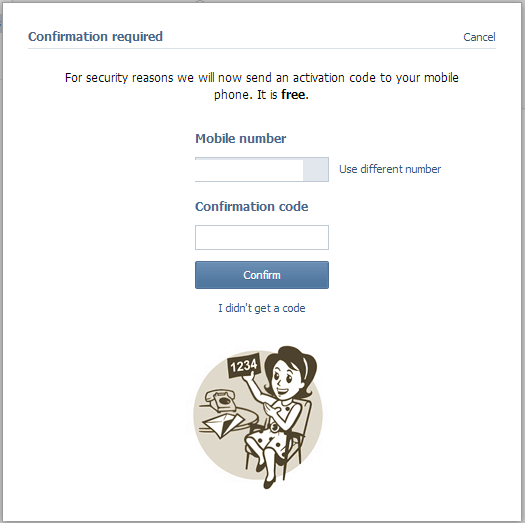
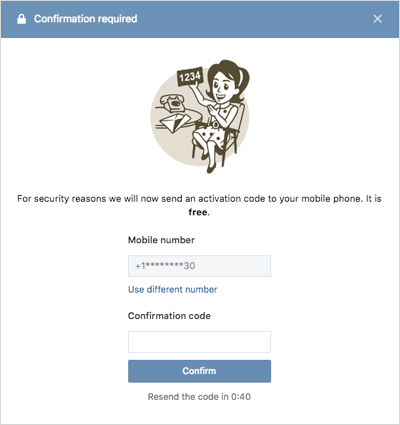
[update] vKontakte - updated steps, all new screenshots

Changed region(s): [[0.0, 0.0, 1.0, 1.0]]

diff --git a/articles/connections/social/vkontakte.md b/articles/connections/social/vkontakte.md
@@ -2,37 +2,93 @@
 connection: vKontakte
 image: /media/connections/vkontakte.png
 seo_alias: vkontakte
+description: How to connect your Auth0 app to vKontakte.
 ---
 
-# Obtaining an Application ID and Secure Key for vKontakte
+# Connect your app to vKontakte
 
-To configure an vKontakte connection you will need to register your Auth0 instance as a vKontakte application.
+To connect your Auth0 app to vKontakte, you will need to generate an `Application ID` and `Secure Key` in a vKontakte app, copy these keys into your Auth0 settings, and enable the connection.
 
-## 1. Create a new Application in vKontakte:
-Log in into vKontakte and [create a new app](http://vk.com/editapp?act=create):
+
+## 1. Create a new vKontakte application
+
+Log in into [vKontakte Developers](https://new.vk.com/dev). 
+
+Go to **My Apps** and click **Create an Application**:
+
+![](/media/articles/connections/social/vkontakte/vkontakte-login.png)
+
+Select **Website** as the **Category**. 
+
+Provide a name for your app.
+
+In the **Site address** field, enter the following:
+
+`https://${account.tenant}.auth0.com`
+
+In the **Base domain** field, enter the following:
+
+`${account.tenant}.auth0.com`
 
 ![](/media/articles/connections/social/vkontakte/vkontakte-create-app.png)
 
-You will be required to confirm the request with an SMS message:
+Click **Connect Site** to create the app.
+
+You will be required to confirm your request with a code send via SMS:
 
 ![](/media/articles/connections/social/vkontakte/vkontakte-validate-create-app.png)
 
----
 
-## 2. Register a new application
+## 2. Enter your *redirect URL*
 
-Complete the form:
+Once the application is created, select **Settings** in the left nav.
 
-![](/media/articles/connections/social/vkontakte/vkontakte-register-app.png)
+In the **Authorized redirect URI** field, enter the following:
 
-The callback address for your app should be:
+`https://${account.tenant}.auth0.com/login/callback`
 
-	https://${account.namespace}/login/callback
+Click **Save**.
 
----
+![](/media/articles/connections/social/vkontakte/vkontakte-redirect.png)
 
-## 3. Get your Application ID and Secure Key
+## 3. Get your *Application ID* and *Secure Key*
 
-Once the application is registered, enter your new `Application ID` and `Secure Key` into the connection settings in Auth0.
+From the top of the same page, copy the `Application ID` and `Secure Key` for use in the next step.
+
+![](/media/articles/connections/social/vkontakte/vkontakte-keys.png)
+
+## 4. Enter your *Application ID* and *Secure Key* into Auth0
+
+In a separate window, go to the [Connections > Social](${uiURL}/#/connections/social) section of the Auth0 dashboard.
+
+Select **vKontakte**:
+
+![](/media/articles/connections/social/vkontakte/vkontakte-logo.png)
+
+Copy the `Application ID` and `Secure Key` from the **Settings** page of your app on vKontakte into the fields on this page on Auth0.
+
+Select the Permissions you want to enable.
+
+Click **SAVE**.
 
 ![](/media/articles/connections/social/vkontakte/vkontakte-add-connection.png)
+
+## 5. Enable the Connection
+
+Go to the **Apps** tab of the vKontakte connection on Auth0 and select each of your existing Auth0 apps for which you want to enable this connection and click **Save**:
+
+![](/media/articles/connections/social/vkontakte/vkontakte-add-apps.png)
+
+## 6. Test the connection
+
+Close the **Settings** window to return to the **Connections > Social** section of the Auth0 dashboard.
+
+A **TRY** icon will now be displayed next to the vKontakte logo:
+
+![](/media/articles/connections/social/vkontakte/vkontakte-try.png)
+
+Click **TRY**.
+
+If you have configured everything correctly, you will see the **It works!!!** page:
+
+![](/media/articles/connections/social/vkontakte/vkontakte-works.png)
